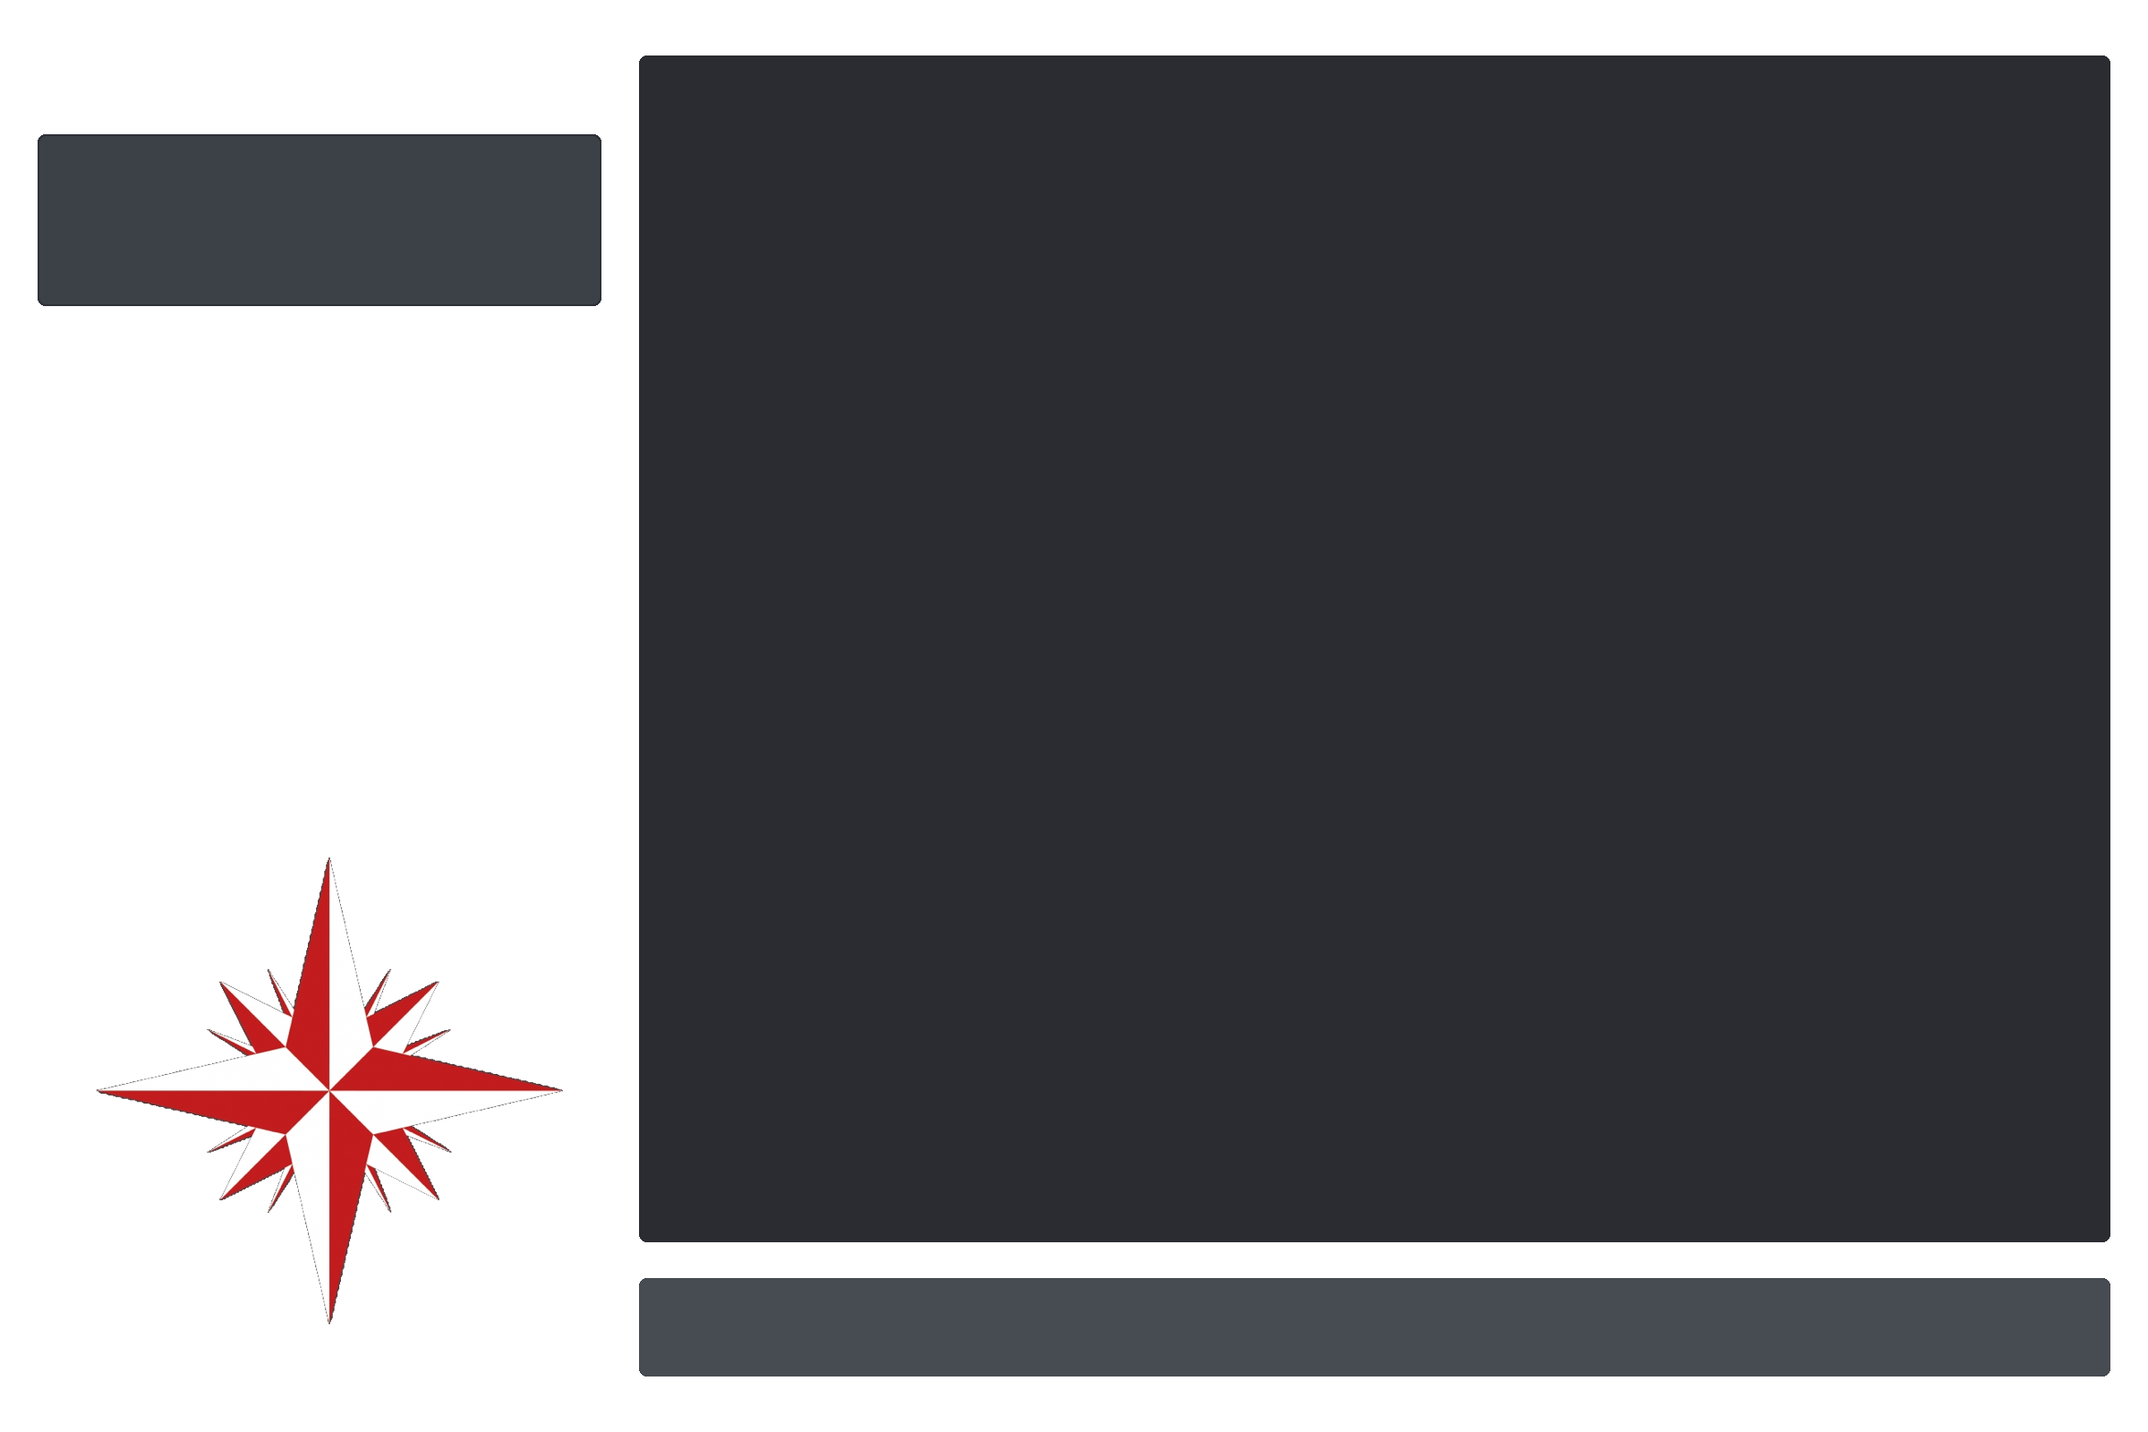
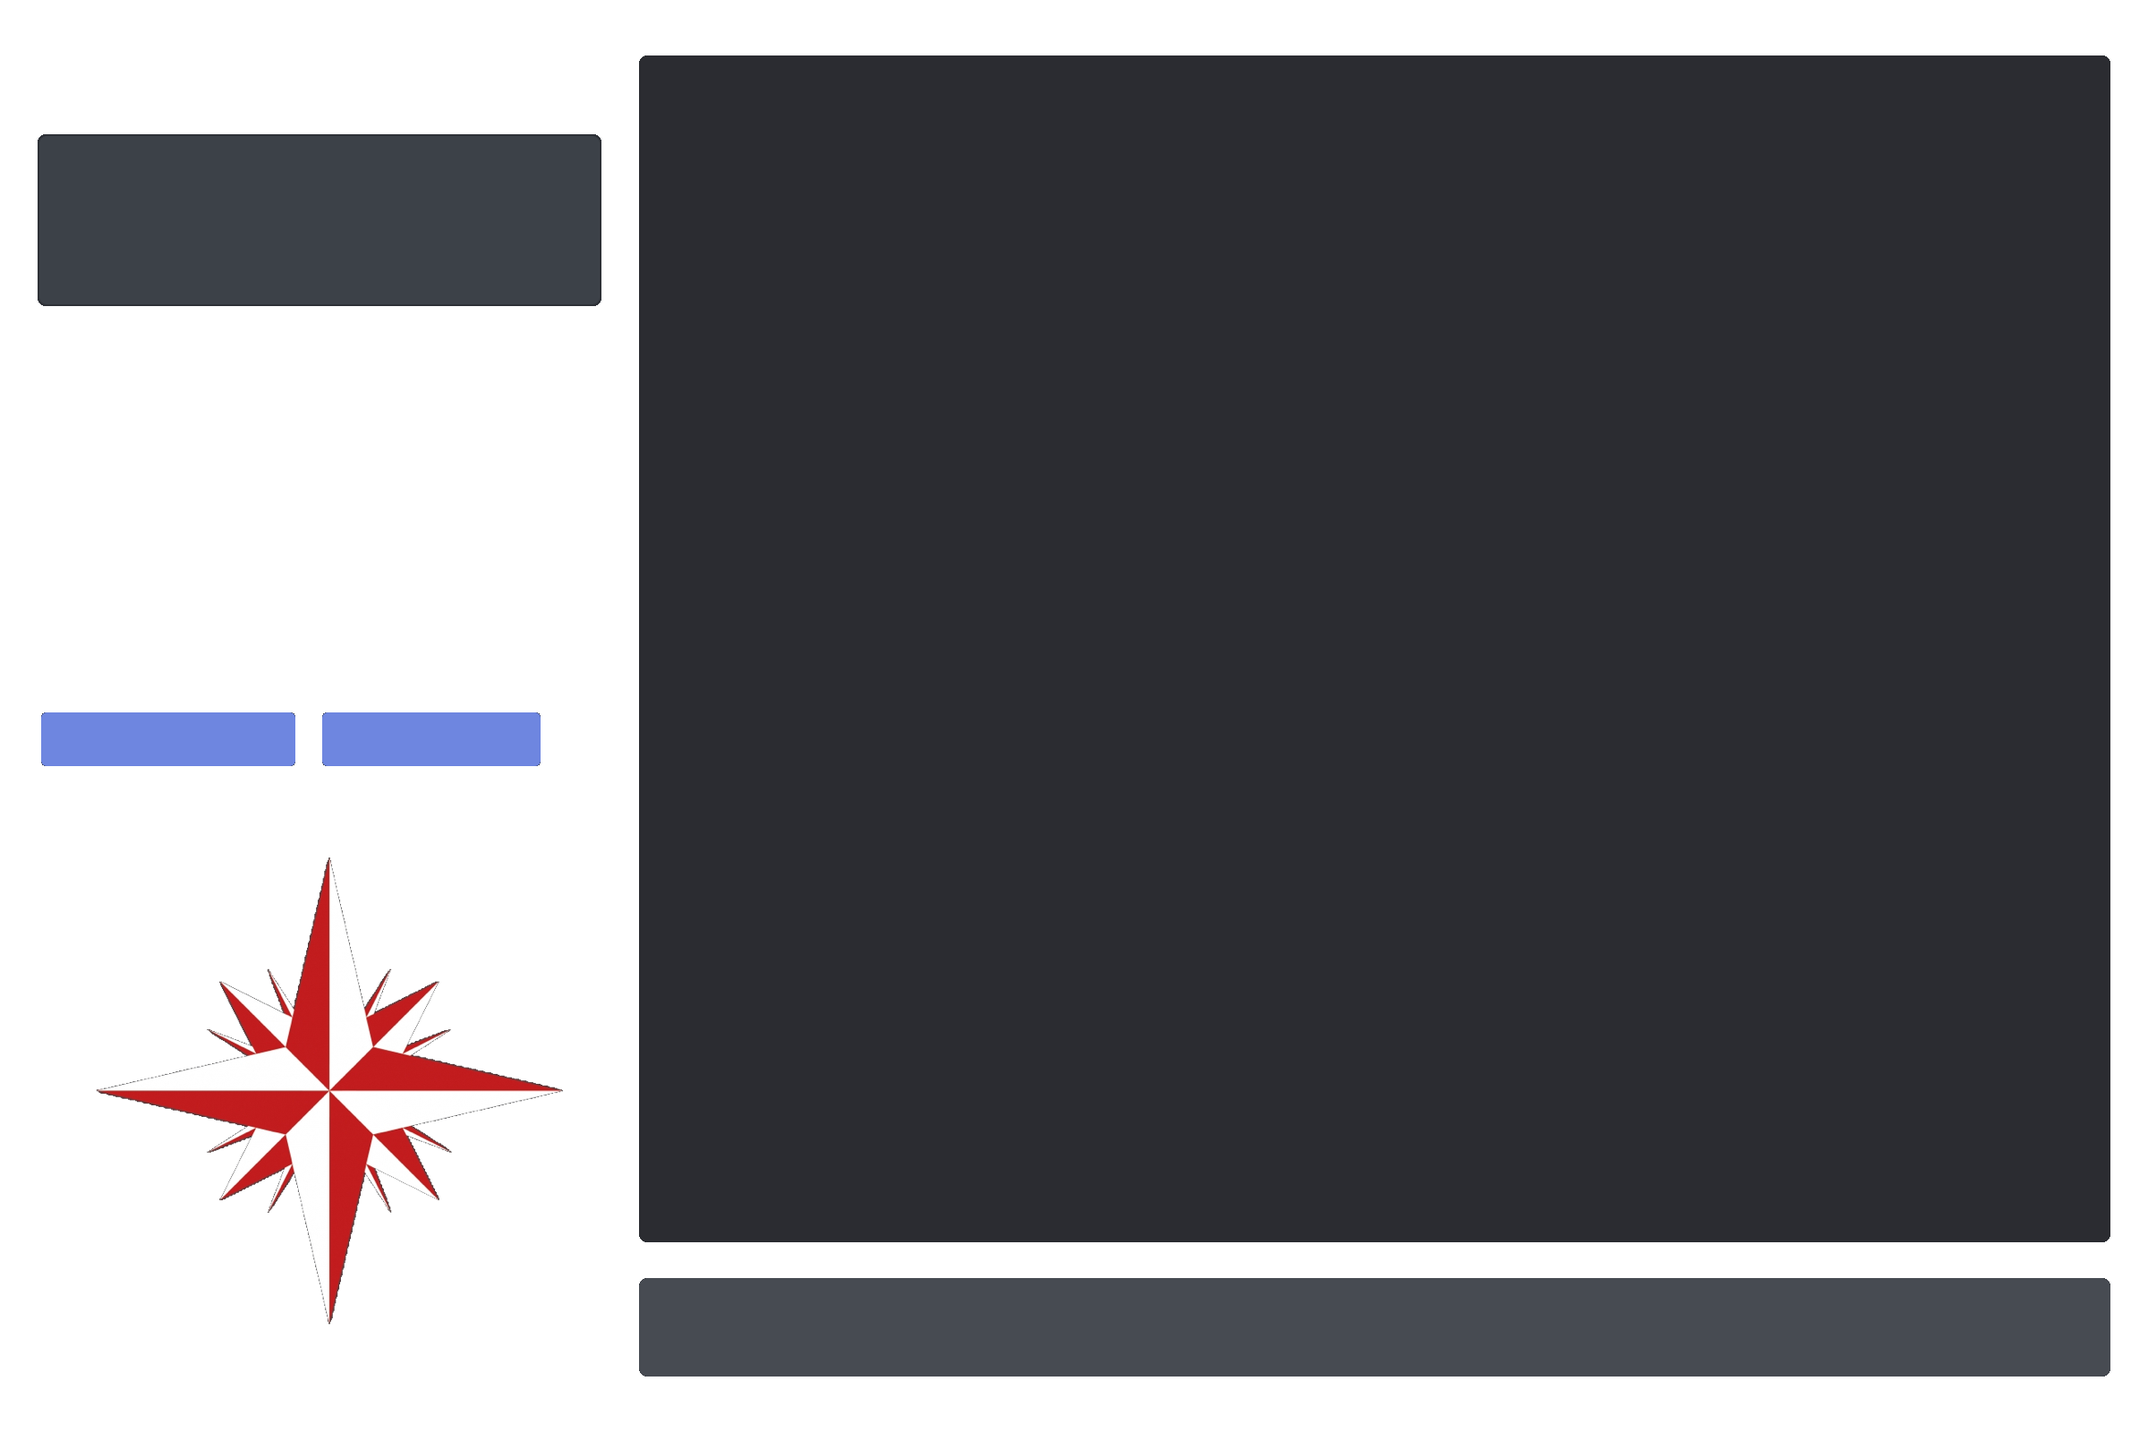
Working basic GUI (#2)

Changed region(s): [[0.0, 0.5, 0.25, 0.5625]]

diff --git a/GUI_2.java b/GUI_2.java
@@ -118,52 +118,52 @@ public class GUI_2 extends JFrame implements UserInterface {
                     playerName.setBounds(22, 18, 314, 40);
                     playerName.setForeground(Color.WHITE);
                     playerName.setFont(new Font("Helvetica Neue", Font.BOLD, 30));
-                    playerName.setToolTipText(currPlayer.description);
+                    playerName.setToolTipText(currPlayer.description.toUpperCase());
 
                     // attack stat
                     JLabel attack = new JLabel("Attack:");
-                    attack.setBounds(50, 72, 80, 20);
+                    attack.setBounds(30, 72, 110, 20);
                     attack.setForeground(new Color(220, 221, 222));
                     attack.setFont(new Font("Helvetica Neue", Font.BOLD, 17));
                     attack.setHorizontalAlignment(SwingConstants.RIGHT);
                     JLabel attackStat = new JLabel();
-                    attackStat.setBounds(144, 72, 64, 20);
+                    attackStat.setBounds(148, 72, 178, 20);
                     attackStat.setForeground(new Color(220, 221, 222));
                     attackStat.setFont(new Font("Helvetica Neue", Font.PLAIN, 17));
                     attackStats.put(currPlayer.name, attackStat);
 
                     // defense stat
                     JLabel defense = new JLabel("Defense:");
-                    defense.setBounds(50, 92, 80, 20);
+                    defense.setBounds(30, 92, 110, 20);
                     defense.setForeground(new Color(220, 221, 222));
                     defense.setFont(new Font("Helvetica Neue", Font.BOLD, 17));
                     defense.setHorizontalAlignment(SwingConstants.RIGHT);
                     JLabel defenseStat = new JLabel();
-                    defenseStat.setBounds(144, 92, 64, 20);
+                    defenseStat.setBounds(148, 92, 178, 20);
                     defenseStat.setForeground(new Color(220, 221, 222));
                     defenseStat.setFont(new Font("Helvetica Neue", Font.PLAIN, 17));
                     defenseStats.put(currPlayer.name, defenseStat);
 
                     // hp stat
                     JLabel hp = new JLabel("HP:");
-                    hp.setBounds(50, 112, 80, 20);
+                    hp.setBounds(30, 112, 110, 20);
                     hp.setForeground(new Color(220, 221, 222));
                     hp.setFont(new Font("Helvetica Neue", Font.BOLD, 17));
                     hp.setHorizontalAlignment(SwingConstants.RIGHT);
                     JLabel hpStat = new JLabel();
-                    hpStat.setBounds(144, 112, 64, 20);
+                    hpStat.setBounds(148, 112, 178, 20);
                     hpStat.setForeground(new Color(220, 221, 222));
                     hpStat.setFont(new Font("Helvetica Neue", Font.PLAIN, 17));
                     hpStats.put(currPlayer.name, hpStat);
 
                     // mp stat
                     JLabel mp = new JLabel("MP:");
-                    mp.setBounds(50, 132, 80, 20);
+                    mp.setBounds(30, 132, 110, 20);
                     mp.setForeground(new Color(220, 221, 222));
                     mp.setFont(new Font("Helvetica Neue", Font.BOLD, 17));
                     mp.setHorizontalAlignment(SwingConstants.RIGHT);
                     JLabel mpStat = new JLabel();
-                    mpStat.setBounds(144, 132, 64, 20);
+                    mpStat.setBounds(148, 132, 178, 20);
                     mpStat.setForeground(new Color(220, 221, 222));
                     mpStat.setFont(new Font("Helvetica Neue", Font.PLAIN, 17));
                     mpStats.put(currPlayer.name, mpStat);
@@ -211,7 +211,6 @@ public class GUI_2 extends JFrame implements UserInterface {
                     JComboBox getMenu = new JComboBox();
                     getMenu.setBounds(18, 176, 323, 34);
                     getMenu.setFont(new Font("Helvetica Neue", Font.BOLD, 17));
-                    //getMenu.setBorder(BorderFactory.createLineBorder(Color.WHITE));
                     getMenu.addActionListener(new ActionListener() {
                         @Override public void actionPerformed(ActionEvent e) {
                             line = "GET" + String.valueOf(getMenu.getSelectedItem()).replaceAll("■", "");
@@ -226,7 +225,6 @@ public class GUI_2 extends JFrame implements UserInterface {
                     JComboBox dropMenu = new JComboBox();
                     dropMenu.setBounds(18, 210, 323, 34);
                     dropMenu.setFont(new Font("Helvetica Neue", Font.BOLD, 17));
-                    //dropMenu.setBorder(BorderFactory.createLineBorder(Color.WHITE));
                     dropMenu.addActionListener(new ActionListener() {
                         @Override public void actionPerformed(ActionEvent e) {
                             line = "DROP" + String.valueOf(dropMenu.getSelectedItem()).replaceAll("■", "");
@@ -241,7 +239,6 @@ public class GUI_2 extends JFrame implements UserInterface {
                     JComboBox useMenu = new JComboBox();
                     useMenu.setBounds(18, 244, 323, 34);
                     useMenu.setFont(new Font("Helvetica Neue", Font.BOLD, 17));
-                    //useMenu.setBorder(BorderFactory.createLineBorder(Color.WHITE));
                     useMenu.addActionListener(new ActionListener() {
                         @Override public void actionPerformed(ActionEvent e) {
                             line = "USE" + String.valueOf(useMenu.getSelectedItem()).replaceAll("■", "");
@@ -256,7 +253,6 @@ public class GUI_2 extends JFrame implements UserInterface {
                     JComboBox equipMenu = new JComboBox();
                     equipMenu.setBounds(18, 278, 323, 34);
                     equipMenu.setFont(new Font("Helvetica Neue", Font.BOLD, 17));
-                    //equipMenu.setBorder(BorderFactory.createLineBorder(Color.WHITE));
                     equipMenu.addActionListener(new ActionListener() {
                         @Override public void actionPerformed(ActionEvent e) {
                             line = "EQUIP" + String.valueOf(equipMenu.getSelectedItem()).replaceAll("■", "");
@@ -273,7 +269,6 @@ public class GUI_2 extends JFrame implements UserInterface {
                     JComboBox consumeMenu = new JComboBox();
                     consumeMenu.setBounds(18, 312, 323, 34);
                     consumeMenu.setFont(new Font("Helvetica Neue", Font.BOLD, 17));
-                    //consumeMenu.setBorder(BorderFactory.createLineBorder(Color.WHITE));
                     consumeMenu.addActionListener(new ActionListener() {
                         @Override public void actionPerformed(ActionEvent e) {
                             line = "CONSUME" + String.valueOf(consumeMenu.getSelectedItem()).replaceAll("■", "");
@@ -290,7 +285,6 @@ public class GUI_2 extends JFrame implements UserInterface {
                     JComboBox buyMenu = new JComboBox();
                     buyMenu.setBounds(18, 346, 323, 34);
                     buyMenu.setFont(new Font("Helvetica Neue", Font.BOLD, 17));
-                    //buyMenu.setBorder(BorderFactory.createLineBorder(Color.WHITE));
                     buyMenu.addActionListener(new ActionListener() {
                         @Override public void actionPerformed(ActionEvent e) {
                             line = "BUY" + String.valueOf(buyMenu.getSelectedItem()).replaceAll("■", "");
@@ -300,6 +294,40 @@ public class GUI_2 extends JFrame implements UserInterface {
                         }
                     });
                     buyMenus.put(currPlayer.name, buyMenu);
+
+                    // 'INVE' command button
+                    JButton btn_inve = new JButton("INVENTORY");
+                    btn_inve.setBounds(24, 388, 140, 28);
+                    btn_inve.setFont(new Font("Helvetica Neue", Font.BOLD, 17));
+                    btn_inve.setCursor(Cursor.getPredefinedCursor(Cursor.HAND_CURSOR));
+                    btn_inve.setForeground(Color.WHITE);
+                    btn_inve.setBorder(BorderFactory.createEmptyBorder());
+                    btn_inve.setOpaque(false);
+                    btn_inve.setContentAreaFilled(false);
+                    btn_inve.setToolTipText("VIEW INVENTORY");
+                    btn_inve.addActionListener(new ActionListener() {
+                        @Override public void actionPerformed(ActionEvent e) {
+                            line = "INVE";
+                            synchronized(syncLock) { syncLock.notifyAll(); }
+                        }
+                    });
+
+                    // 'INSPECT' command button
+                    JButton btn_insp = new JButton("INSPECT");
+                    btn_insp.setBounds(181, 388, 120, 28);
+                    btn_insp.setFont(new Font("Helvetica Neue", Font.BOLD, 17));
+                    btn_insp.setCursor(Cursor.getPredefinedCursor(Cursor.HAND_CURSOR));
+                    btn_insp.setForeground(Color.WHITE);
+                    btn_insp.setBorder(BorderFactory.createEmptyBorder());
+                    btn_insp.setOpaque(false);
+                    btn_insp.setContentAreaFilled(false);
+                    btn_insp.setToolTipText("INSPECT FOOTPRINTS");
+                    btn_insp.addActionListener(new ActionListener() {
+                        @Override public void actionPerformed(ActionEvent e) {
+                            line = "INSPECT";
+                            synchronized(syncLock) { syncLock.notifyAll(); }
+                        }
+                    });
 
                     // N direction button
                     JButton btn_N = new JButton("N");
@@ -610,6 +638,8 @@ public class GUI_2 extends JFrame implements UserInterface {
                     card.add(equipMenu);
                     card.add(consumeMenu);
                     card.add(buyMenu);
+                    card.add(btn_inve);
+                    card.add(btn_insp);
                     card.add(btn_N);
                     card.add(btn_S);
                     card.add(btn_E);
@@ -885,10 +915,22 @@ public class GUI_2 extends JFrame implements UserInterface {
         List<Artifact>    artifacts = currPlayer.currPlace.placeArtifacts;
         ArrayList<String> names     = new ArrayList<String>();
         names.add("GET");
+
         for (Artifact a : artifacts)
             names.add("■ " + a.name().toUpperCase());
 
         getMenus.get(n).setModel(new DefaultComboBoxModel(names.toArray()));
+
+        if (getMenus.get(n).getItemCount() > 1) {
+            getMenus.get(n).setEnabled(true);
+            getMenus.get(n).setCursor(Cursor.getPredefinedCursor(Cursor.HAND_CURSOR));
+            getMenus.get(n).setToolTipText("GET ARTIFACT");
+        }
+        else {
+            getMenus.get(n).setEnabled(false);
+            getMenus.get(n).setCursor(Cursor.getPredefinedCursor(Cursor.DEFAULT_CURSOR));
+            getMenus.get(n).setToolTipText("");
+        }
     }//end populateGetMenu()
 
 
@@ -898,10 +940,22 @@ public class GUI_2 extends JFrame implements UserInterface {
         List<Artifact>    artifacts = currPlayer.inventory;
         ArrayList<String> names     = new ArrayList<String>();
         names.add("DROP");
+
         for (Artifact a : artifacts)
             names.add("■ " + a.name().toUpperCase());
 
         dropMenus.get(n).setModel(new DefaultComboBoxModel(names.toArray()));
+
+        if (dropMenus.get(n).getItemCount() > 1) {
+            dropMenus.get(n).setEnabled(true);
+            dropMenus.get(n).setCursor(Cursor.getPredefinedCursor(Cursor.HAND_CURSOR));
+            dropMenus.get(n).setToolTipText("DROP ARTIFACT");
+        }
+        else {
+            dropMenus.get(n).setEnabled(false);
+            dropMenus.get(n).setCursor(Cursor.getPredefinedCursor(Cursor.DEFAULT_CURSOR));
+            dropMenus.get(n).setToolTipText("");
+        }
     }//end populateDropMenu()
 
 
@@ -911,11 +965,23 @@ public class GUI_2 extends JFrame implements UserInterface {
         List<Artifact>    artifacts = currPlayer.inventory;
         ArrayList<String> names     = new ArrayList<String>();
         names.add("USE");
+
         for (Artifact a : artifacts)
             if (a.pattern() > 0)
                 names.add("■ " + a.name().toUpperCase());
 
         useMenus.get(n).setModel(new DefaultComboBoxModel(names.toArray()));
+
+        if (useMenus.get(n).getItemCount() > 1) {
+            useMenus.get(n).setEnabled(true);
+            useMenus.get(n).setCursor(Cursor.getPredefinedCursor(Cursor.HAND_CURSOR));
+            useMenus.get(n).setToolTipText("USE KEY");
+        }
+        else {
+            useMenus.get(n).setEnabled(false);
+            useMenus.get(n).setCursor(Cursor.getPredefinedCursor(Cursor.DEFAULT_CURSOR));
+            useMenus.get(n).setToolTipText("");
+        }
     }//end populateUseMenu()
 
 
@@ -925,11 +991,23 @@ public class GUI_2 extends JFrame implements UserInterface {
         List<Artifact>    artifacts = currPlayer.inventory;
         ArrayList<String> names     = new ArrayList<String>();
         names.add("EQUIP");
+
         for (Artifact a : artifacts)
             if (a instanceof Armor || a instanceof Weapon)
                 names.add("■ " + a.name().toUpperCase());
 
         equipMenus.get(n).setModel(new DefaultComboBoxModel(names.toArray()));
+
+        if (equipMenus.get(n).getItemCount() > 1) {
+            equipMenus.get(n).setEnabled(true);
+            equipMenus.get(n).setCursor(Cursor.getPredefinedCursor(Cursor.HAND_CURSOR));
+            equipMenus.get(n).setToolTipText("EQUIP ARMOR OR WEAPON");
+        }
+        else {
+            equipMenus.get(n).setEnabled(false);
+            equipMenus.get(n).setCursor(Cursor.getPredefinedCursor(Cursor.DEFAULT_CURSOR));
+            equipMenus.get(n).setToolTipText("");
+        }
     }//end populateEquipMenu()
 
 
@@ -939,11 +1017,23 @@ public class GUI_2 extends JFrame implements UserInterface {
         List<Artifact>    artifacts = currPlayer.inventory;
         ArrayList<String> names     = new ArrayList<String>();
         names.add("CONSUME");
+
         for (Artifact a : artifacts)
             if (a instanceof Food)
                 names.add("■ " + a.name().toUpperCase());
 
         consumeMenus.get(n).setModel(new DefaultComboBoxModel(names.toArray()));
+
+        if (consumeMenus.get(n).getItemCount() > 1) {
+            consumeMenus.get(n).setEnabled(true);
+            consumeMenus.get(n).setCursor(Cursor.getPredefinedCursor(Cursor.HAND_CURSOR));
+            consumeMenus.get(n).setToolTipText("CONSUME FOOD");
+        }
+        else {
+            consumeMenus.get(n).setEnabled(false);
+            consumeMenus.get(n).setCursor(Cursor.getPredefinedCursor(Cursor.DEFAULT_CURSOR));
+            consumeMenus.get(n).setToolTipText("");
+        }
     }//end populateConsumeMenu()
 
 
@@ -957,6 +1047,17 @@ public class GUI_2 extends JFrame implements UserInterface {
             names.add("■ " + i);
 
         buyMenus.get(n).setModel(new DefaultComboBoxModel(names.toArray()));
+
+        if (currPlayer.currPlace instanceof Market) {
+            buyMenus.get(n).setEnabled(true);
+            buyMenus.get(n).setCursor(Cursor.getPredefinedCursor(Cursor.HAND_CURSOR));
+            buyMenus.get(n).setToolTipText("BUY MARKET PRIZE");
+        }
+        else {
+            buyMenus.get(n).setEnabled(false);
+            buyMenus.get(n).setCursor(Cursor.getPredefinedCursor(Cursor.DEFAULT_CURSOR));
+            buyMenus.get(n).setToolTipText("");
+        }
     }//end populateConsumeMenu()
 
 

diff --git a/Buy.java b/Buy.java
@@ -50,7 +50,7 @@ public class Buy extends Move {
                 }
             }
         }
-        else printIO.display("Enter \'BUY\' followed by a random number [1..5].\n");
+        else printIO.display("Enter \'BUY\' followed by a random number [1,5].\n");
         return false;
     }//end execute()
 }//end Use class
